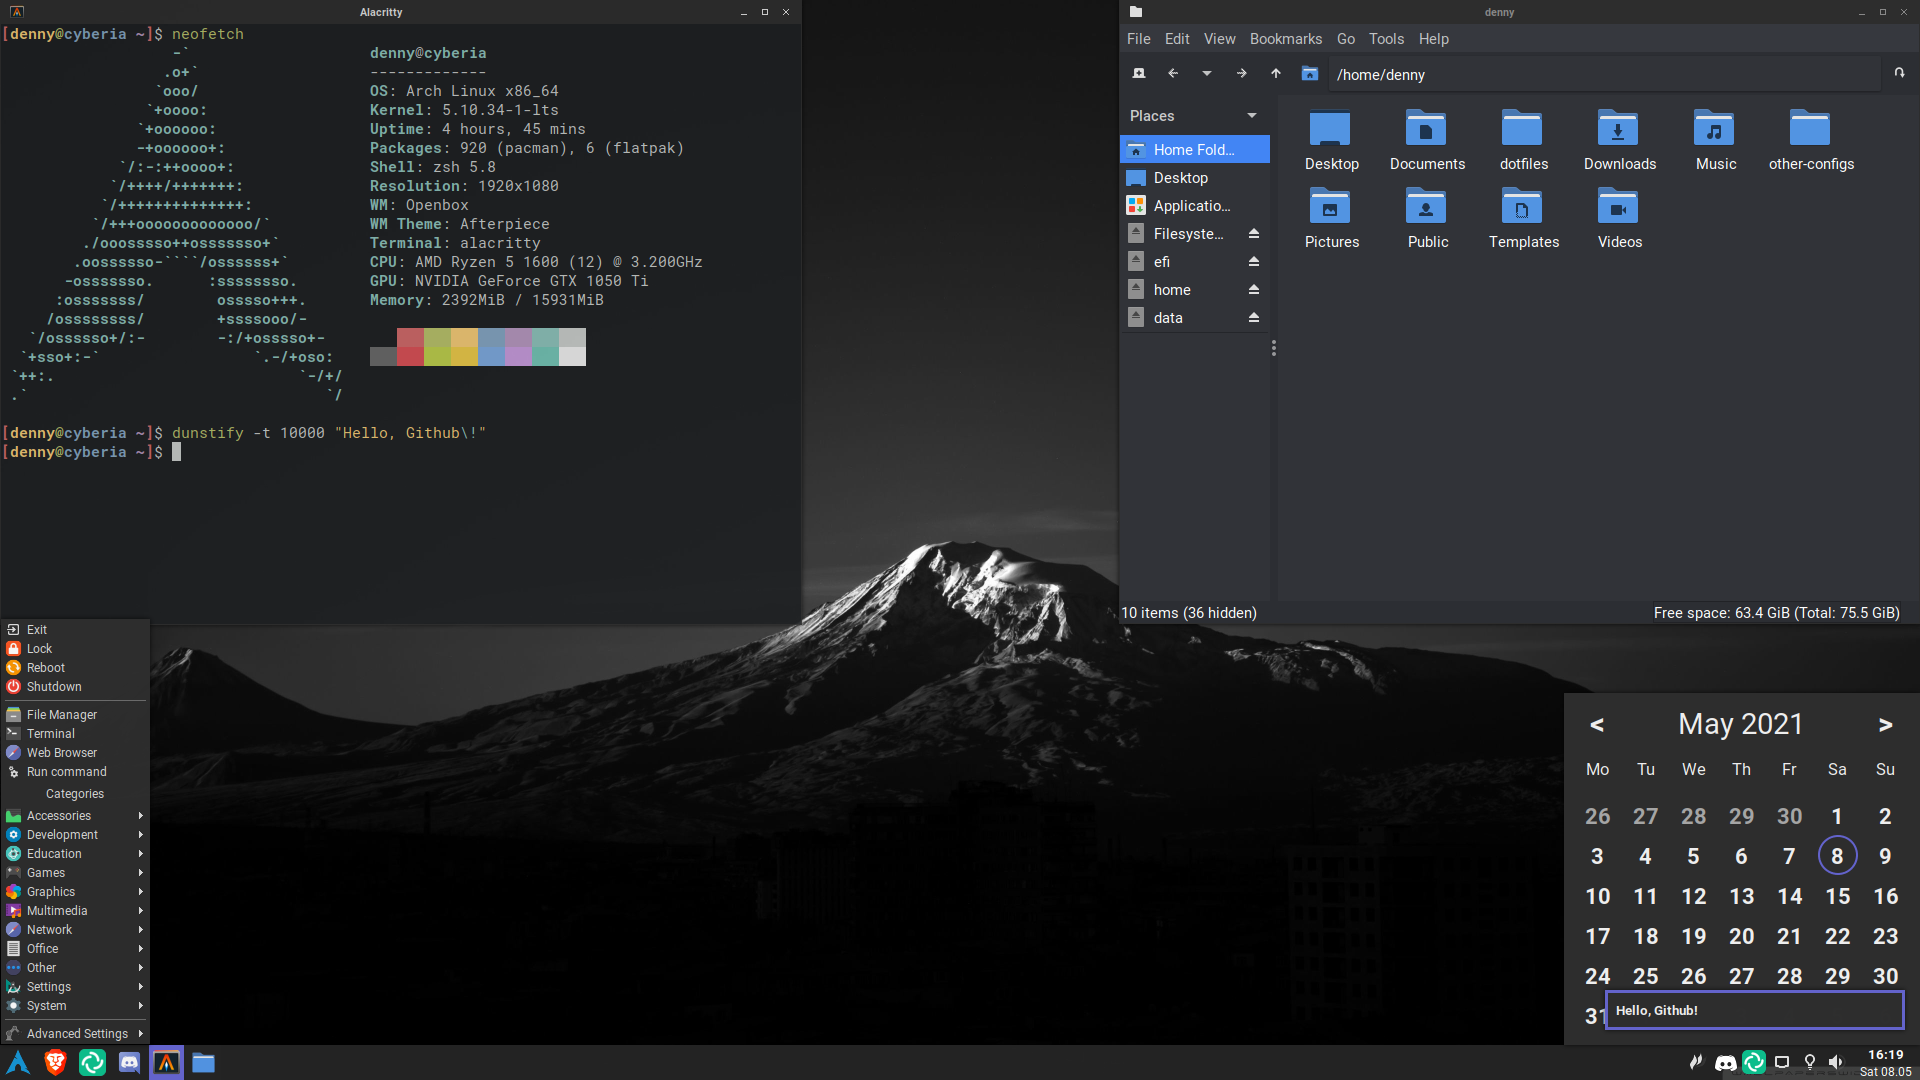
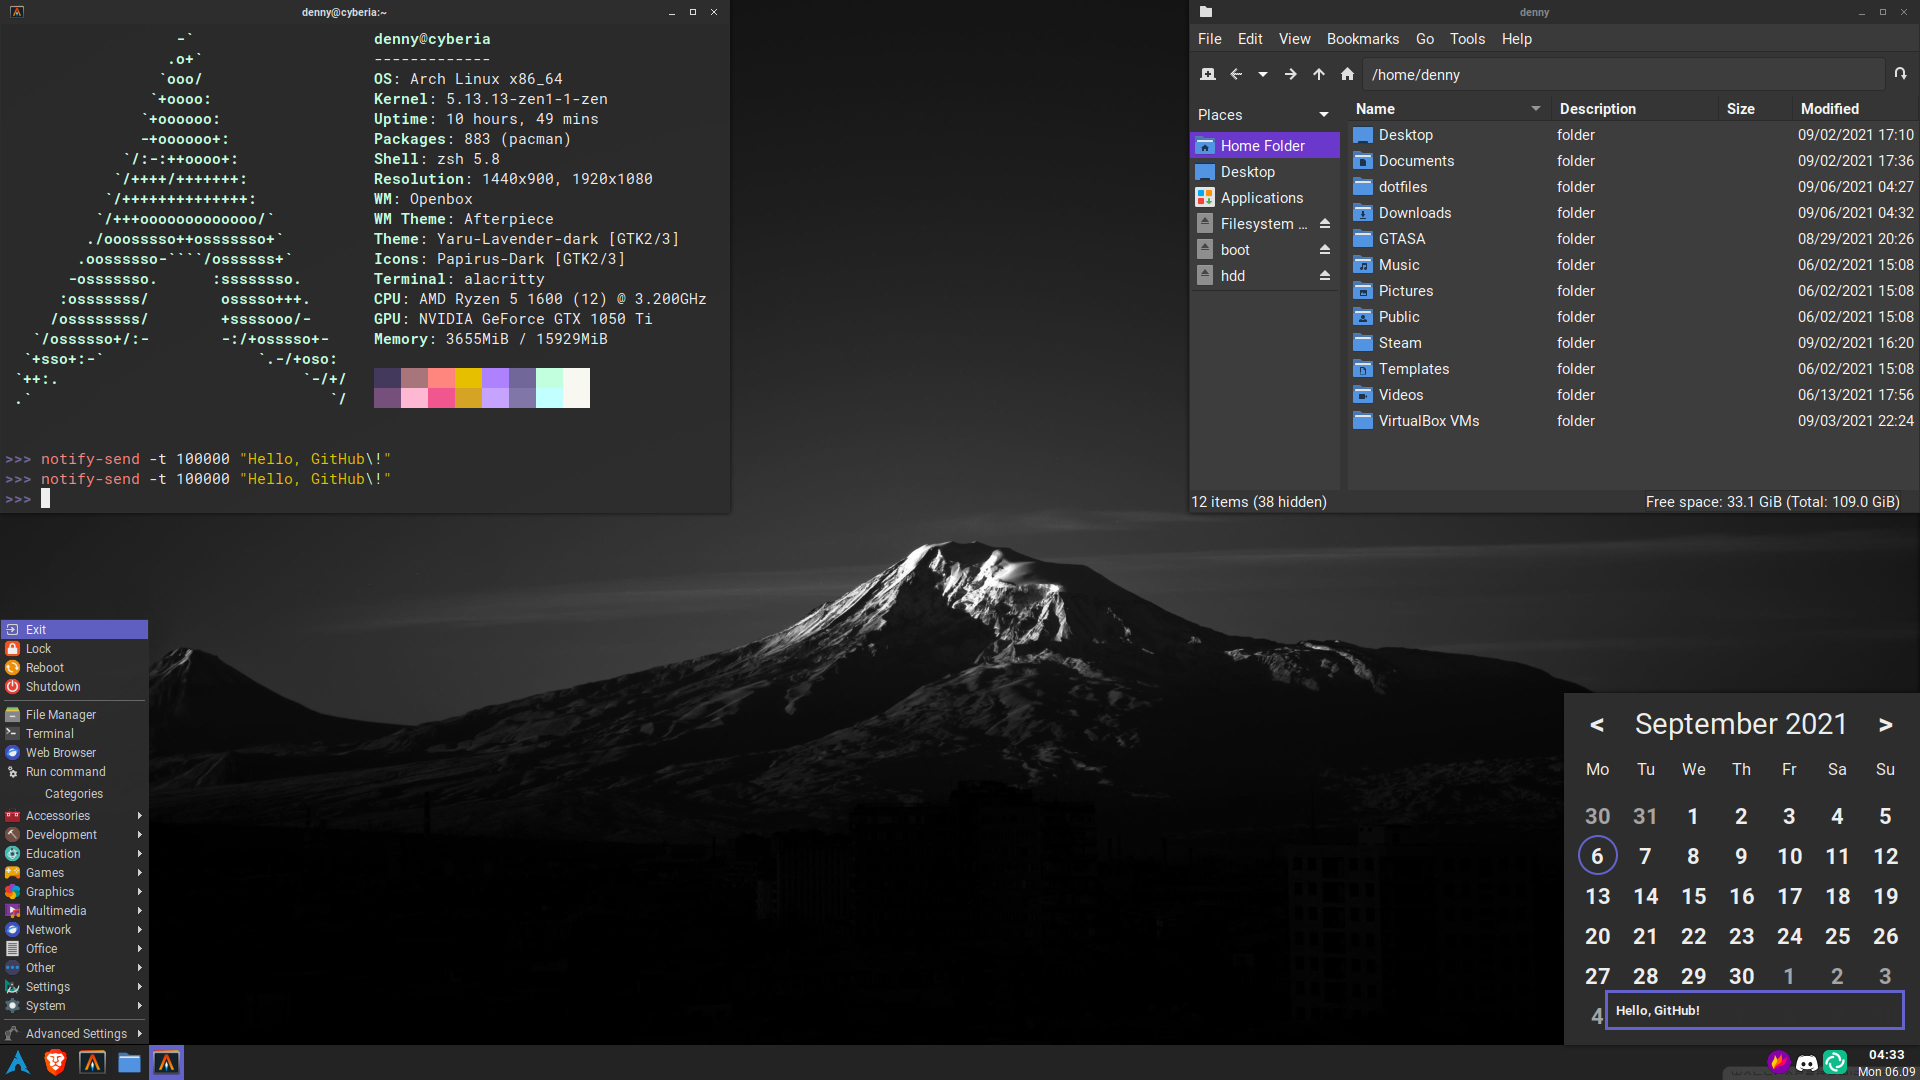
update screenshot and readme

diff --git a/README.md b/README.md
@@ -2,12 +2,16 @@
 
 A pretty much desktop environment made with openbox and other minimal(-ish) tools
 
-![Screenshot: ](screenshot.png)
+![Screenshot](screenshot.png)
 
-The install script will automatically install needed packages and set up everything for you on an Arch based system, you just need the yay AUR helper installed. <br>
-You can ignore the hardware specific configs and autologin options, those are specific for me.
+The install script will automatically install needed packages and set up everything for you on an Arch based system. <br>
+You can ignore the hardware specific configs and autologin option, those are specific for me.
 
 # Usage
-```stow -t ~ openbox rofi tint2 dunst ...``` <br>
-or just <br>
-```stow -t ~ *```
+```
+stow -t ~ openbox rofi tint2 dunst ...
+``` 
+or just
+```
+stow -t ~ *
+```
